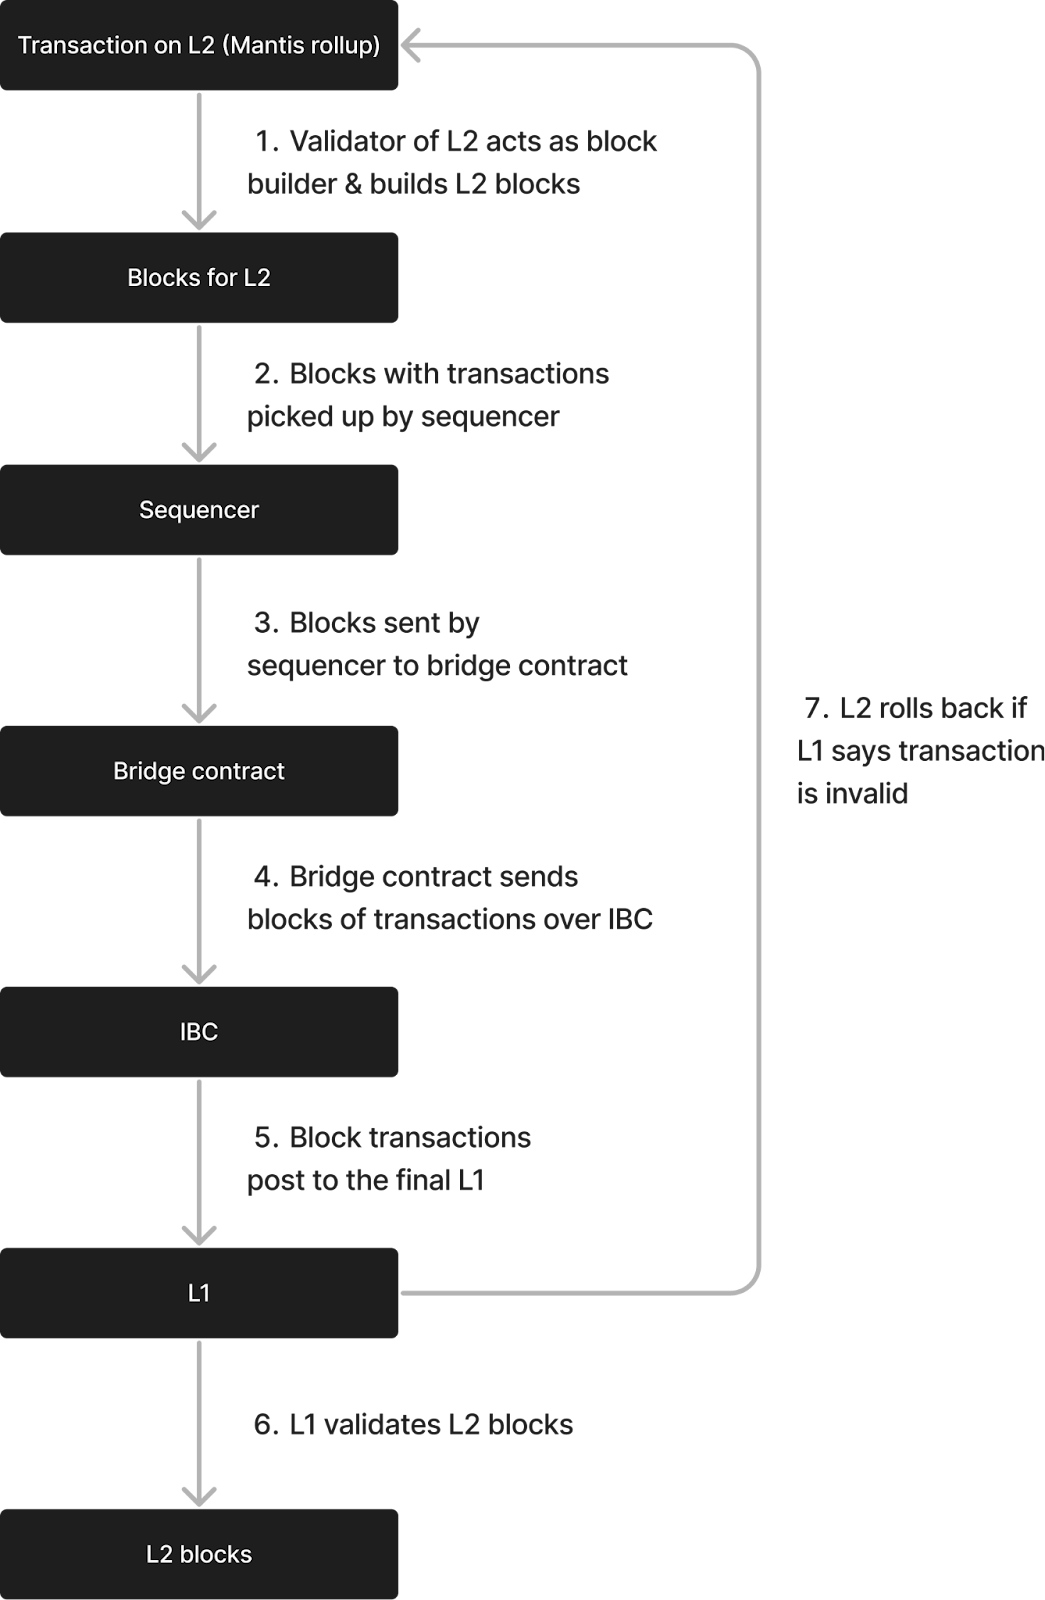
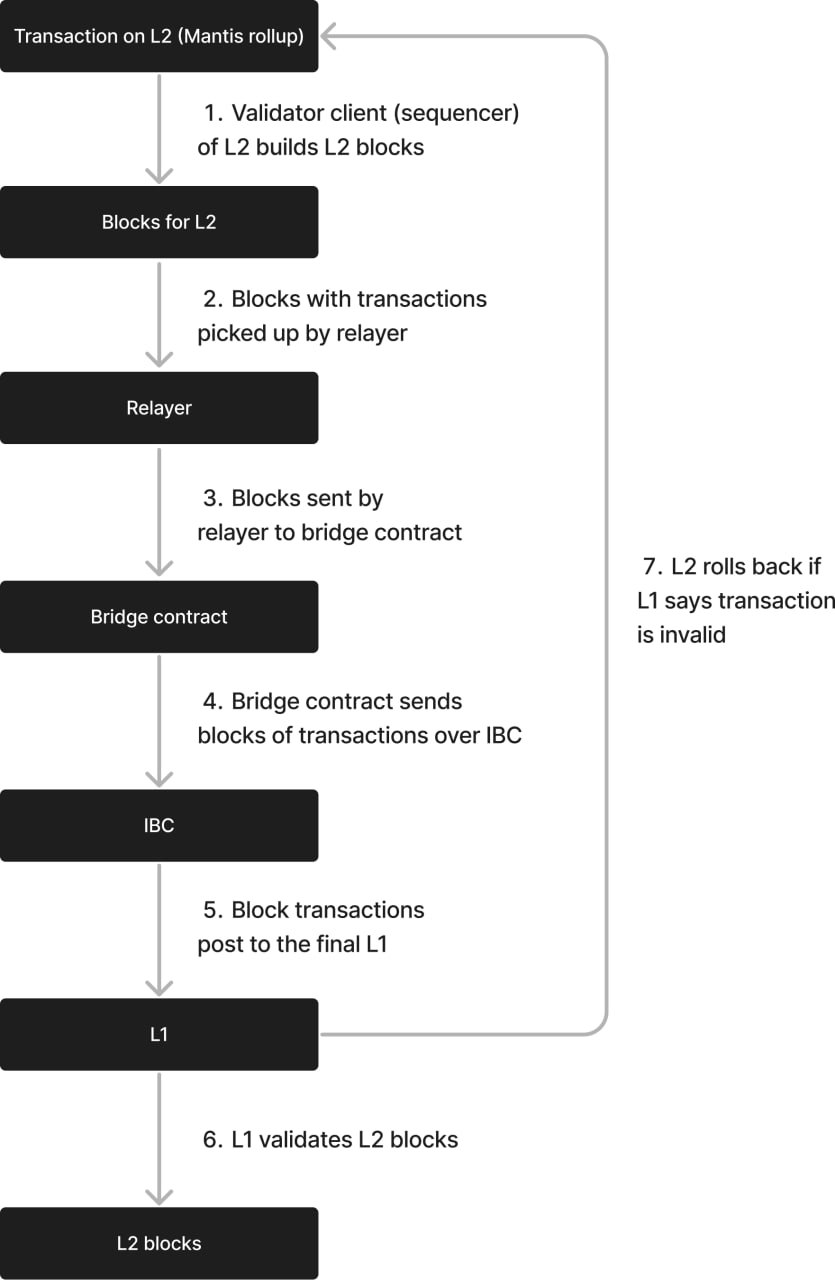
push

diff --git a/docs/protocol/solvers.md b/docs/protocol/solvers.md
@@ -174,9 +174,7 @@ An example Mantis solver algorithm can be viewed [here](https://github.com/Compo
 
 ### Fast Bridge
 
-WWe are implementing an architecture that allows fast bridging of swaps along our IBC-connected infrastructure. Users will be able to indicate they would like to participate in fast bridging as a part of their intent specifications. Initially, fast bridging will only be supported for limit orders.
-
-A contract on both sides (i.e. both the source chain and the destination chain) allows the user to get their funds from the market maker quickly. A USDT pool on both sides of the transaction enables USDT to be quickly transferred in this manner. The market maker will be able to tap into an endpoint for rebalancing. The market maker can swap out of this pool. 
+We have implemented an architecture that allows fast bridging of swaps along our IBC-connected infrastructure. A contract on both sides (i.e. both the source chain and the destination chain) allows the user to get their funds from the market maker quickly. A USDT pool on both sides of the transaction enables USDT to be quickly transferred in this manner. The market maker will be able to tap into an endpoint for rebalancing. The market maker can swap out of this pool. 
 
 This works as follows:
 1. A user submits an intent and opts for fast bridging. Market makers listen to new intents being broadcast to the Mantis smart contract (which communicates with the Picasso IBC bridge).
@@ -216,24 +214,24 @@ The solutions could be ranked based on:
 
 The solver would then assign a utility value to each potential solution based on these factors, with higher utility scores given to solutions that best meet or exceed the user's specified intent. This allows the system to efficiently identify and execute the most favorable trade for the user within the constraints of their intent.
 
-Auction Timeline
+### Auction Timeline
 
 - The auction begins when the intent is stored in the rollup.
-- It concludes after a predetermined AUCTION_TIMEOUT period (to be decided).
+- It concludes after the predetermined AUCTION_TIMEOUT period.
 
-Auction Mechanism
+### Auction Mechanism
 
-- The auction is conducted in an English auction style that ends at specific time AUCTION_TIMEOUT (4 seconds on solana and 10 seconds on ethereum) in the auction smart contract.
+- The auction is conducted in an English auction style that ends at specific time AUCTION_TIMEOUT in the auction smart contract.
 - Solvers can place bids until the auction ends, with each new bid required to exceed the previous one.
 
-Post-Auction
+### Post-Auction
 
 - Upon auction completion, the auctioneer:
   - Emits an event announcing the winning solver.
   - Records the intent and solver solution on the destination chain.
 - The winning solver can then execute its solution on the destination chain.
 
-# Failure
+## Failure
 
 There are three types of fundamental failures in this system:
 
@@ -249,7 +247,7 @@ In the third case, either the user's or solver's funds (depending on whether the
 
 These mechanisms ensure that users can recover their assets in case of system failures or non-performance by solvers, maintaining the safety and reliability of the cross-chain operations.
 
-# Execution and Penalties
+## Execution and Penalties
 
 If a solver fails to properly execute the solution:
 
@@ -260,7 +258,7 @@ If the executed solution doesn't match the committed solution:
 
 - The agent will be unable to withdraw user funds.
 
-# Costs
+## Costs
 
 Costs on the Mantis Protocol include Protocol Fees and Submission Gas
 
@@ -269,7 +267,7 @@ Costs on the Mantis Protocol include Protocol Fees and Submission Gas
 Introductory fees (protocol fees) are as follows:
 
 - Solana single domain: 0.1% of the token in
-- Ethereum single domain - 0.1% of the token in
+- Ethereum single domain: 0.1% of the token in
 
 ## Submission Gas Cost
 

diff --git a/docs/develop/setup.md b/docs/develop/setup.md
@@ -1,0 +1,105 @@
+---
+sidebar_position: 1
+---
+
+# Setup
+
+### How to Install Rust
+
+1. Install Rust:
+```
+curl --proto '=https' --tlsv1.2 -sSf https://sh.rustup.rs | sh
+```
+
+2. Verify installation:
+```
+rustc --version
+```
+
+### How to Setup .env
+1. 
+Create a .env file in the project root:
+```
+touch .env
+```
+
+2. Add these variables:
+```
+ETHEREUM_RPC=""
+ETHEREUM_PKEY=""
+SOLANA_KEYPAIR=""
+```
+
+### How to Run Commands
+
+Use this structure:
+```
+cargo run -- [COMMAND]
+```
+
+Example commands:
+Solana single domain:
+```
+cargo run -- solana <amount_in> <token_in> <token_out> <amount_out> <timeout>
+```
+
+Ethereum single domain:
+
+```
+cargo run -- ethereum <token_in> <amount_in> <token_out> <amount_out> <timeout>
+```
+
+## Requesting API Keys
+
+Please fill out [this form](https://docs.google.com/forms/d/e/1FAIpQLSdc-jOpCJ3djIbcrPWK2dc700AVclA0aYJiwgL6hOvTC4FMmQ/viewform?usp=sf_link) to request Mantis API keys.
+
+## Explorer for Rollup
+
+We’re using Solana explorers:
+
+- [Solscan](https://solscan.io/?cluster=custom&customUrl=https://mantis-testnet-rollup.composable-shared-artifacts.composablenodes.tech/rpc)
+- [Solana Explorer](https://explorer.solana.com/?cluster=custom&customUrl=https%3A%2F%2Fmantis-testnet-rollup.composable-shared-artifacts.composablenodes.tech%2Frpc)
+
+WS: [ws://35.241.172.68:8900]
+
+RPC: [https://mantis-testnet-rollup.composable-shared-artifacts.composablenodes.tech]
+
+Faucet: [http://35.241.172.68:9900]
+
+## Testnet
+
+RPC: [https://mantis-rollup.composable-shared-artifacts.composablenodes.tech/rpc]
+
+WS: [https://mantis-rollup.composable-shared-artifacts.composablenodes.tech/ws]
+
+Explorer #1: [https://solscan.io/?cluster=custom&customUrl=https://mantis-rollup.composable-shared-artifacts.composablenodes.tech/rpc]
+
+Explorer #2: [https://explorer.solana.com/?cluster=custom&customUrl=https%3A%2F%2Fmantis-rollup.composable-shared-artifacts.composablenodes.tech%2Frpc]
+
+# Faucet
+
+[https://mantis-rollup.composable-shared-artifacts.composablenodes.tech/faucet]
+
+# How to Deploy Smart Contracts on the Mantis Rollup
+
+Contracts deployment works exactly [the same](https://solana.com/docs/programs/deploying) as on Solana, but notice that working with the chain and the SPL contracts may be different (see the section below).
+
+Mantis contracts are deployed to the Solana blockchain the same way as other Solana programs (or smart contracts). Download and run the script in order to install the Solana CLI. More details can be found [here](https://solana.com/docs/intro/installation#install-the-solana-cli).
+
+Once the Solana CLI is installed, it can be used to deploy programs to the blockchain with the following command:
+
+```
+solana program deploy &lt;PROGRAM_FILEPATH&gt;
+```
+
+Here, &lt;PROGRAM_FILEPATH&gt; is the executable to be deployed. Optionally, the –-program-id parameter can be used to provide a path to a JSON file containing a keypair which should be used for deployment. See [here](https://docs.solanalabs.com/cli/examples/deploy-a-program) for more details.
+
+A quick guide on how to develop a Solana program is available [here](https://www.quicknode.com/guides/solana-development/anchor/how-to-write-your-first-anchor-program-in-solana-part-1).
+
+## Chain-Specific Changes
+
+Mantis is a fork of [Jito](https://github.com/jito-foundation/jito-solana), which means it supports some features of Jito such as [transaction bundles](https://docs.slerf.tools/english-en/solana-guide/jito-bundle) that can be useful for an MEV rollup..
+
+Also, Mantis uses a [modified](https://github.com/ComposableFi/solana-program-library/tree/mantis) version of SPL programs, in particular, spl-token: it adds an additional \`supply_on_l1\` field to the Mint account of a token that is used to render the proper amount on the UI when dealing with rebased tokens.
+
+

diff --git a/docs/develop/mantis-sdk.md b/docs/develop/mantis-sdk.md
@@ -1,0 +1,48 @@
+---
+sidebar_position: 2
+---
+
+# The Mantis Intents SDK
+
+The Mantis Software Development Kit (SDK) is a developer toolkit that enables seamless integration with and construction on the Mantis Protocol. The repo for the Mantis Intents SDK is available [here](https://github.com/ComposableFi/mantis_sdk/blob/main/README.md).
+
+## How to Route Orderflow Through Mantis
+
+Projects can send intents through Mantis by integrating our protocol. From here, these intents will be optimally settled by the Mantis solver network.
+
+The easiest way to interact with the Mantis protocol is to use the Mantis intents SDK. However, it is also possible to use the escrow contracts that have been created on each blockchain supported by Mantis to facilitate the intent system. We describe both options below.
+
+## Revenue Share
+
+In the future, projects sending unique orderflow through Mantis can also earn a percentage of revenue. They will be able to select this percentage.
+
+The Mantis intents SDK:
+
+- Enables any application to access Mantis by pointing to the Mantis RPC
+  - This enables generalization of intents
+- Interacts with the expression layer of Mantis
+- Allows Mantis to act as back-end processing and chain abstraction for AI agents and telegram bots
+
+As a result, protocols and applications are able to tap into the benefits of Mantis:
+
+- User friendliness
+- Streamlined chain abstraction
+- Security and trust-minimization
+- Optimized routing
+- Incentivization for ecosystem participants
+
+Many projects within the DeFi space can leverage Mantis by tapping into the remote procedure call (RPC) of the Mantis Intent Software Development Kit (SDK). This is shown below:
+![dev](../develop/develop.png)
+
+
+Some examples of these projects that can benefit from integrating Mantis are as follows:
+
+**Crypto Wallets:** Wallets can use Mantis to become intent-centric. This allows their users to submit intents for their desired crypto transaction outcomes. Intent settlement will then be carried out and optimized by Mantis solvers. Intents are executed on any chain that is connected to IBC using the optimal solution achieved. This delivers best execution for users while providing a streamlined UX within the existing wallet UI.
+
+**Order Flow Originators:** Any protocols that originate order flow can integrate Mantis to process orders. This can make these protocols intent-centric and provides chain-agnostic intent settlement over IBC.
+
+**Trading Bots:** Bots’ strategy algorithms can use Mantis-based trading opportunities. Settlement of these trades will then be optimized by Mantis solvers, providing best execution to users. Bot projects benefit from this opportunity financially; any bot that has partnered with Mantis and directs unique order flow to Mantis automatically receives that revenue share, once Mantis processes the given order.
+
+**AI Agents:** Artificial intelligence (AI) agents can partner with Mantis to enable strategically timed swaps along the Mantis protocol. Partner protocols’ existing tech stacks can be used to generate these AI agents. AI agents will then submit user intents at optimal times to Mantis. Intent settlement will be further optimized by Mantis solvers. Similarly to partner trading bots, partner AI agents also receive revenue based on order flow origination. Specifically, any AI agent that has partnered with Mantis will receive a revenue share when they have successfully directed unique order flow to Mantis.
+
+**Order Flow Destinations:** DeFi protocols can integrate Mantis to receive order flow from the platform. Order flow destinations include DEXes, lending protocols, or derivatives platforms.

diff --git a/docs/protocol/roadmap.md b/docs/protocol/roadmap.md
@@ -85,3 +85,15 @@ The initial design is just-in-time auctions to allow builders to express atomica
 This approach poses two main challenges: the risk of double-signing and the high level of trust placed in the relay. Thus, in the future, Mantis aims to introduce a future blockspace market, where the rights to future blockspace on multiple domains can be bought and sold. This aims to decrease the monopolistic power of sellers selling combinations of blocks while increasing market efficiency.
 
 Both the initial just-in-time auctions and the more advanced combinatorial blockspace future markets are described in detail in the [Mantis Whitepaper](https://assets.website-files.com/65b28e756a8eda2e91e76ca4/6656289f21123d6215091555_MANTIS%20Whitepaper.pdf).
+
+### Decentralized Sequencing
+
+Sequencers are network nodes that play critical roles on a rollup. These roles include:
+
+- Aggregating, ordering, and executing transactions
+- Producing preconfirmations
+- Sending ordered transactions to the data availability layer
+
+The Mantis rollup will have a rotating set of independent sequencers to ensure that these critical functions are not interrupted and to provide censorship-resistance. This further guarantees intents and solutions are accepted before the end of the scoring period. This will also maintain the credibility of scoring and facilitating blockspace auctions.
+
+The Mantis sequencing design will be similar to [AltLayer’s restaked rollup design](https://docs.altlayer.io/altlayer-documentation) that incorporates a decentralized sequencing network into the rollup’s architecture. Anyone will be able to register as a node on the Mantis rollup. Nodes are then able to become validators if they meet the minimum amount of stake. This provides security for the rollup in a manner that incorporates slashing. This further ensures that transaction inclusion on layer 1 is not done in a malicious way. Node operators will be able to provide their own stake or accept delegations. This reduces the barrier to entry by allowing nodes on Mantis to crowdsource their collateral.

diff --git a/docs/rollup/tx-lifecycle.md b/docs/rollup/tx-lifecycle.md
@@ -1,15 +1,15 @@
 ---
-sidebar_position: 6
+sidebar_position: 5
 ---
 # Rollup Transaction Lifecycle
 
 Transactions settle down from layer 2 (the Mantis rollup) to layer 1 (the destination chain of the transaction):
 
-1. Transactions on the Mantis rollup are used to construct blocks by the Mantis rollup validators. In this way, rollup validators also act as block builders.
-2. The blocks of Mantis rollup transactions are picked up by the sequencer on Mantis.
-3. Sequencers send blocks to the Mantis bridge contract.
-4. The bridge contract subsequently sends transactions out over IBC using a light client that we have created between L1 and L2.
-5. Via the IBC relay (note: NOT the sequencer), blocks of transactions post to the final layer 1.
+1. Transactions on the Mantis rollup are used to construct blocks by the Mantis rollup validator client (the sequencer). In this way, rollup validators also act as block builders. 
+2. The blocks of Mantis rollup transactions are picked up by the relayer on Mantis. 
+3. The relayer sends blocks to the Mantis bridge contract.
+4. The bridge contract subsequently sends transactions out over IBC using a light client that we have created between L1 and L2. 
+5. Via the IBC relay (note: NOT the sequencer), blocks of transactions post to the final layer 1. 
 6. The layer 1 validates the layer 2 blocks; if the L1 says a transaction/block is invalid, the layer 2 rolls back.
 
 This transaction lifecycle is depicted in the following diagram:

diff --git a/docs/protocol/audits.md b/docs/protocol/audits.md
@@ -3,6 +3,6 @@ sidebar_position: 6
 ---
 # Audits
 
-Mantis is completing an audit with [Ottersec](https://osec.io/), an auditing firm that has secured leading projects such as the Solana Foundation, OlympusDAO, Algorand, Sui, and Squads. Thus far, Ottersec has secured over $5.69 billion in total value locked, with over $1 billion in vulnerabilities patched.
+Mantis has completed an audit with [Ottersec](https://osec.io/), an auditing firm that has secured leading projects such as the Solana Foundation, OlympusDAO, Algorand, Sui, and Squads. Thus far, Ottersec has secured over $5.69 billion in total value locked, with over $1 billion in vulnerabilities patched.
 
-When available, the report of the Ottersec audit of Mantis will be available [here](https://github.com/ComposableFi/composable/tree/main/audits) on GitHub.
+The report of the Ottersec audit of Mantis is available [here](https://github.com/ComposableFi/composable/tree/main/audits) on GitHub.

diff --git a/docs/protocol/solver-rules.md b/docs/protocol/solver-rules.md
@@ -22,7 +22,7 @@ These rules are designed to ensure fair competition, maintain system integrity, 
 
 1.5 **Liquidity Sources for Swaps**: In the case of swap-type intents, solvers have flexibility in sourcing liquidity. They may utilize their own liquidity reserves or tap into liquidity from Automated Market Makers (AMMs). However, any external liquidity must be secured and committed before the predefined EXECUTION_TIMEOUT.
 
-2\. **Off-Chain Agreements**
+2. **Off-Chain Agreements**
 
 2.1 **Commitment Enforcement**: In scenarios where a solver commits to a solution but fails to execute it, they are required to pay a penalty. This penalty is equal to the exact amount they committed in their solution. The payment should be made to the "Composable Foundation Refund Smart Contract" (note: this name is tentative and subject to change, or the process may be handled entirely off-chain).
 

diff --git a/docs/rollup/data-types.md b/docs/rollup/data-types.md
@@ -1,5 +1,5 @@
 ---
-sidebar_position: 5
+sidebar_position: 4
 ---
 # Data Types
 

diff --git a/docs/rollup/rebasing.md b/docs/rollup/rebasing.md
@@ -1,5 +1,5 @@
 ---
-sidebar_position: 7
+sidebar_position: 6
 ---
 # Rebasing
 
